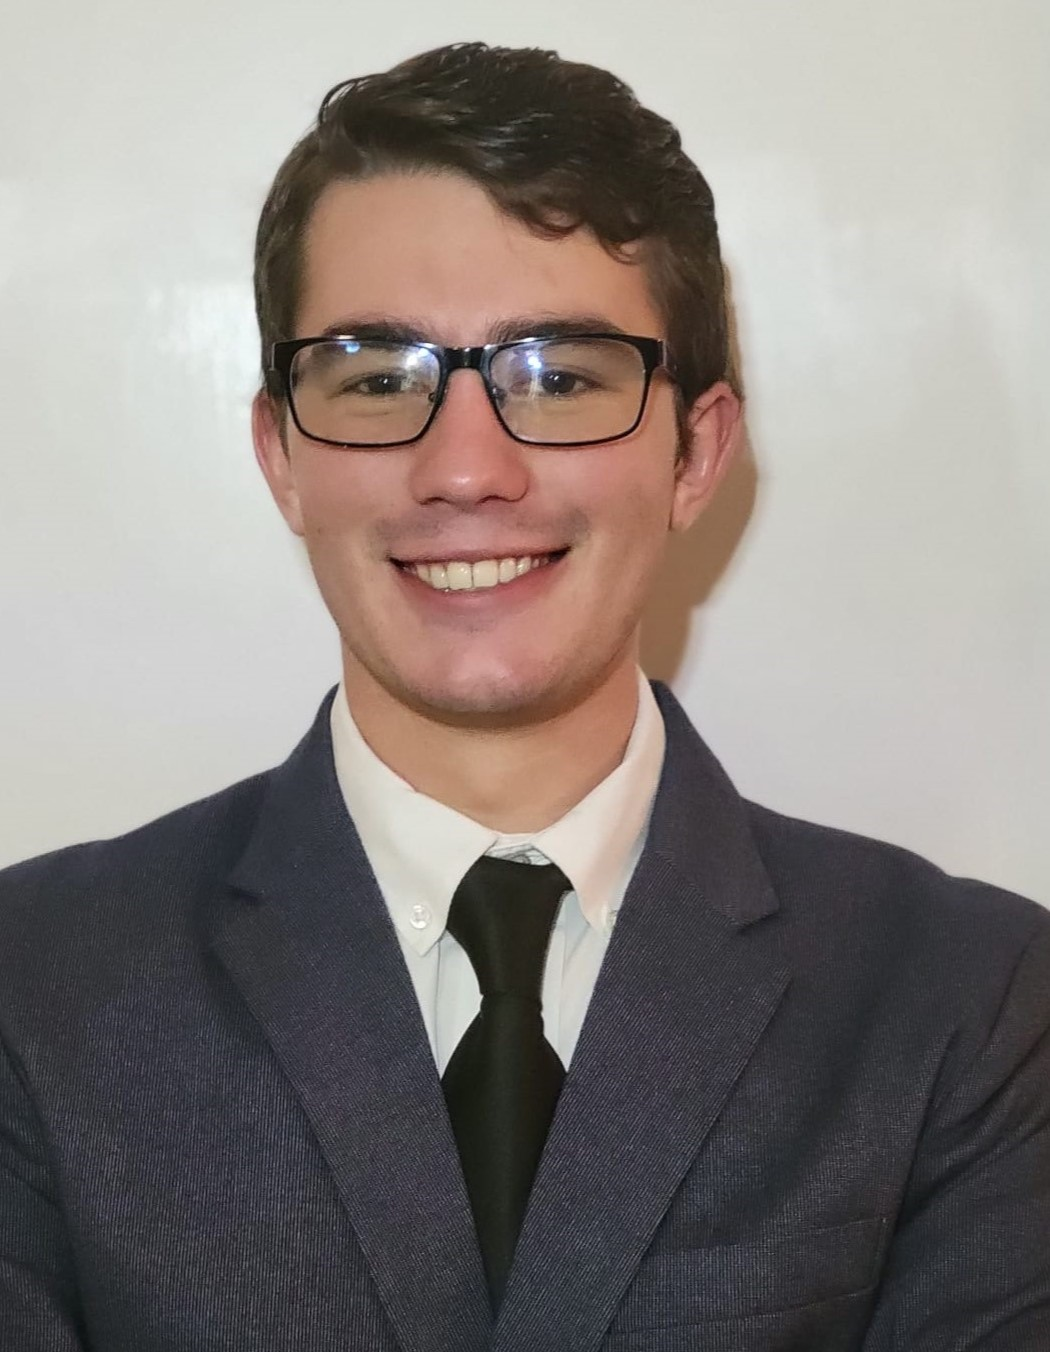
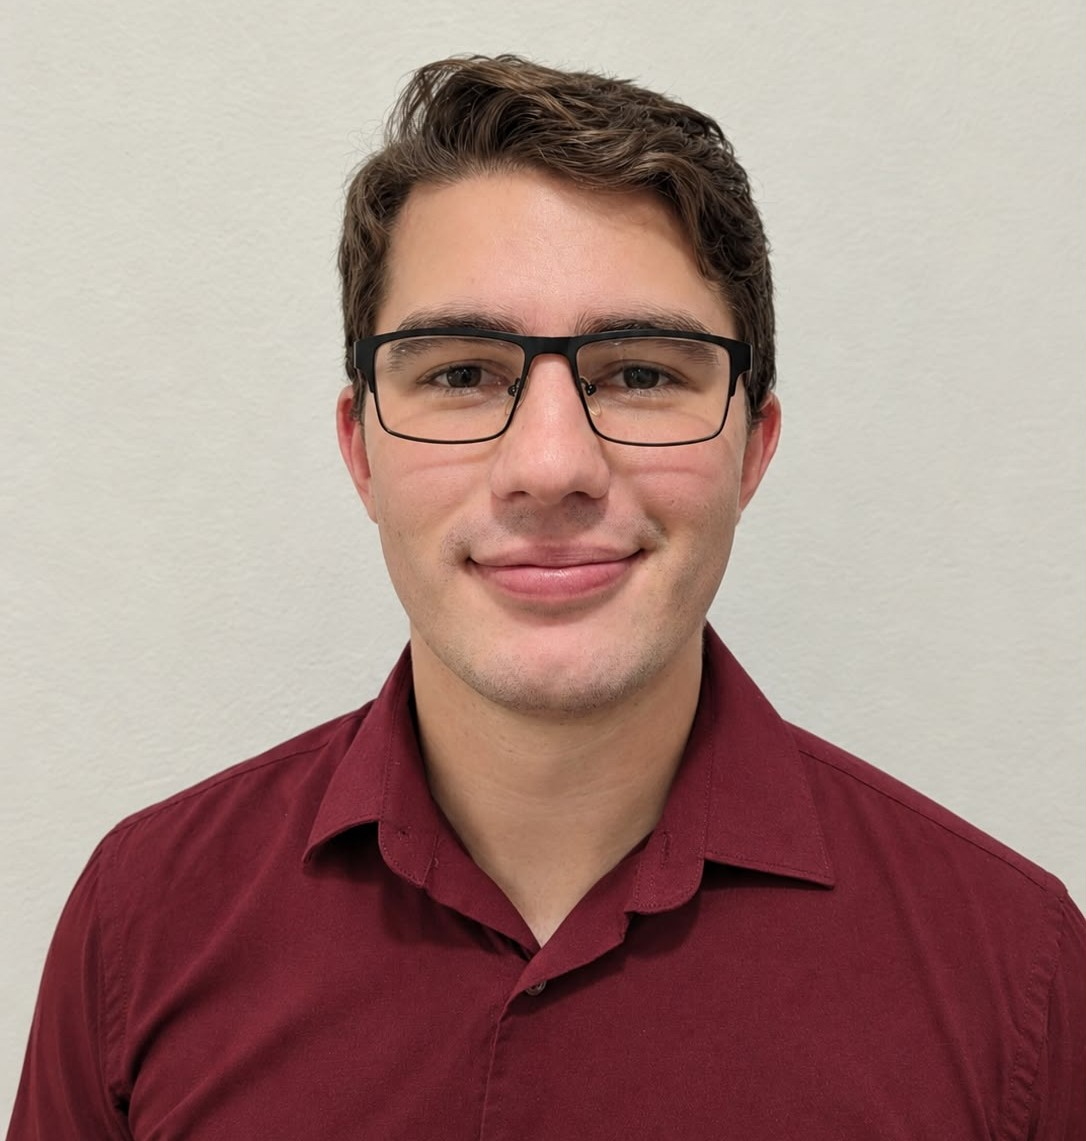
added nav bar - FAQ - bacground - new images

diff --git a/App.js b/App.js
@@ -1,7 +1,7 @@
 import React, { useCallback, useEffect, useRef, useState } from 'react';
-import { ScrollView, View, Text, Image, Pressable, StyleSheet, useWindowDimensions, Platform, ActivityIndicator } from 'react-native';
+import { ScrollView, View, Text, Image, Pressable, StyleSheet, useWindowDimensions, Platform, ActivityIndicator, ImageBackground } from 'react-native';
 import { colors, fonts } from './src/theme';
-import { SUBJECTS, REVIEWS, ABOUT_TEXT } from './src/data/content';
+import { SUBJECTS, REVIEWS, ABOUT_TEXT, FAQ } from './src/data/content';
 import api from './src/services/ApiService';
 import BookingModal from './src/components/BookingModal';
 
@@ -30,6 +30,8 @@ export default function App() {
   const [availabilities, setAvailabilities] = useState(null);
   const [selectedSlot, setSelectedSlot] = useState(null);
   const [bookedIds, setBookedIds] = useState([]);
+  const [openFaq, setOpenFaq] = useState(null);
+  const [navHeight, setNavHeight] = useState(0);
 
   useEffect(() => {
     api.getAvailabilities().then(setAvailabilities);
@@ -37,19 +39,55 @@ export default function App() {
 
   const track = (key) => (e) => { positions.current[key] = e.nativeEvent.layout.y; };
   const goTo = useCallback((key) => {
-    scrollRef.current?.scrollTo({ y: Math.max((positions.current[key] || 0) - 8, 0), animated: true });
-  }, []);
+    scrollRef.current?.scrollTo({ y: Math.max((positions.current[key] || 0) - navHeight - 8, 0), animated: true });
+  }, [navHeight]);
   const goToAvailability = () => goTo('availability');
+  
+  const goToTop = useCallback(() => {
+  scrollRef.current?.scrollTo({ y: 0, animated: true });
+}, []);
 
   const pad = wide ? 64 : 24;
-  const NAV = [['About', 'about'], ['Reviews', 'reviews'], ['Availability', 'availability'], ['FAQ', 'faq']];
+  const NAV = [['Availability', 'availability'],['About', 'about'], ['FAQ', 'faq'],['Reviews', 'reviews'] , ];
+
+  const faqItems = Array.isArray(FAQ)
+    ? FAQ.map((item) => {
+        if (Array.isArray(item)) return { q: item[0], a: item[1] };
+        if (item.question !== undefined) return { q: item.question, a: item.answer };
+        if (item.q !== undefined) return { q: item.q, a: item.a };
+        return { q: Object.keys(item)[0], a: Object.values(item)[0] };
+      })
+    : Object.entries(FAQ).map(([q, a]) => ({ q, a }));
 
   return (
     <View style={styles.root}>
+      {/* NAV BAR */}
+      <View
+        onLayout={(e) => setNavHeight(e.nativeEvent.layout.height)}
+        style={[styles.nav, styles.navFixed, { paddingHorizontal: pad, flexDirection: wide ? 'row' : 'column', alignItems: wide ? 'center' : 'flex-start' }]}
+      >
+        <Pressable accessibilityRole="link" accessibilityLabel="Back to top" onPress={goToTop}>
+          <Text style={styles.brand}>Adam Hirshson</Text>
+          <Text style={styles.brandSub}>Math Tutor</Text>
+        </Pressable>
+        <View style={styles.navLinks}>
+          {NAV.map(([label, key]) => (
+            <Pressable key={key} accessibilityRole="link" onPress={() => goTo(key)}>
+              <Text style={styles.navText}>{label}</Text>
+            </Pressable>
+          ))}
+        </View>
+      </View>
+    
       <ScrollView ref={scrollRef} contentContainerStyle={{ backgroundColor: colors.paper }}>
         {/* Hero + nav */}
-        <View style={[styles.hero, gridBg, { borderBottomLeftRadius: wide ? 240 : 100 }]}>
-          <View style={[styles.nav, { paddingHorizontal: pad, flexDirection: wide ? 'row' : 'column', alignItems: wide ? 'center' : 'flex-start' }]}>
+        <ImageBackground
+          source={require('./assets/mathbackground.png')}
+          resizeMode="cover"
+          style={[styles.hero, { paddingTop: (navHeight), borderBottomLeftRadius: wide ? 240 : 100 }]}
+          imageStyle={{ borderBottomLeftRadius: wide ? 240 : 100 }}
+>
+          {/* <View style={[styles.nav, { paddingHorizontal: pad, flexDirection: wide ? 'row' : 'column', alignItems: wide ? 'center' : 'flex-start' }]}>
             <View>
               <Text style={styles.brand}>Adam Hirshson</Text>
               <Text style={styles.brandSub}>Math Tutor</Text>
@@ -61,7 +99,7 @@ export default function App() {
                 </Pressable>
               ))}
             </View>
-          </View>
+          </View> */}
 
           <View style={[styles.heroBody, { paddingHorizontal: pad, flexDirection: wide ? 'row' : 'column' }]}>
             <View style={{ flex: 1, gap: 24, paddingVertical: wide ? 40 : 8 }}>
@@ -70,11 +108,11 @@ export default function App() {
               <Text style={styles.freeAdvert}>First session free, book it now!</Text>
               <View style={{ alignSelf: 'flex-start' }}><BookButton onPress={goToAvailability} /></View>
             </View>
-            <View style={[styles.heroPhotoWrap, wide ? { marginLeft: 48 } : { marginTop: 32, alignSelf: 'center' }]}>
-              <Image source={require('./assets/adam-hero.jpg')} style={styles.heroPhoto} resizeMode="cover" accessibilityLabel="Adam Hirshson" />
-            </View>
+            {/* <View style={[styles.heroPhotoWrap, wide ? { marginLeft: 48 } : { marginTop: 32, alignSelf: 'center' }]}> */}
+              {/* <Image source={require('./assets/adam-hero.jpg')} style={styles.heroPhoto} resizeMode="cover" accessibilityLabel="Adam Hirshson" /> */}
+            {/* </View> */}
           </View>
-        </View>
+        </ImageBackground>
 
         {/* Services */}
         <View onLayout={track('services')} style={[styles.section, { paddingHorizontal: pad }]}>
@@ -136,6 +174,29 @@ export default function App() {
           </View>
         </View>
         
+        {/* FAQ */}
+      <View onLayout={track('faq')} style={[styles.section, { paddingHorizontal: pad, backgroundColor: colors.mist }]}>
+        <Text style={styles.h2}>Frequently asked questions</Text>
+        <View style={styles.faqList}>
+          {faqItems.map((item, i) => {
+            const open = openFaq === i;
+            return (
+              <View key={i} style={styles.faqItem}>
+                <Pressable
+                  accessibilityRole="button"
+                  accessibilityState={{ expanded: open }}
+                  onPress={() => setOpenFaq(open ? null : i)}
+                  style={({ hovered }) => [styles.faqHeader, hovered && styles.faqHeaderHover]}
+                >
+                  <Text style={styles.faqQuestion}>{item.q}</Text>
+                  <Text style={[styles.faqChevron, { transform: [{ rotate: open ? '180deg' : '0deg' }] }]}>▾</Text>
+                </Pressable>
+                {open && <Text style={styles.faqAnswer}>{item.a}</Text>}
+              </View>
+            );
+          })}
+        </View>
+      </View>
 
         {/* Reviews */}
         <View onLayout={track('reviews')} style={[styles.section, { paddingHorizontal: pad }]}>
@@ -169,15 +230,16 @@ export default function App() {
 
 const styles = StyleSheet.create({
   root: { flex: 1, backgroundColor: colors.paper },
-  hero: { backgroundColor: colors.slate, paddingBottom: 56 },
+  hero: { backgroundColor: colors.slate, paddingBottom: 56, overflow: 'hidden'},
   nav: { paddingTop: 24, paddingBottom: 16, justifyContent: 'space-between', gap: 12 },
   brand: { fontFamily: fonts.display, fontSize: 26, fontWeight: '700', color: colors.white },
   brandSub: { fontFamily: fonts.body, fontSize: 15, color: colors.mist },
+  navFixed: { position: 'absolute', top: 0, left: 0, right: 0, zIndex: 10, backgroundColor: colors.slate },
   navLinks: { flexDirection: 'row', flexWrap: 'wrap', gap: 24 },
   navText: { fontFamily: fonts.body, fontSize: 22, fontWeight: '500', color: colors.white },
   heroBody: { alignItems: 'center', paddingTop: 24 },
   h1: { fontFamily: fonts.display, fontWeight: '700', color: colors.white },
-  lead: { fontFamily: fonts.body, fontSize: 20, lineHeight: 30, color: colors.mist, maxWidth: 480 },
+  lead: { fontFamily: fonts.body, fontSize: 24, lineHeight: 30, color: colors.mist, maxWidth: 480 },
   freeAdvert: { fontFamily: fonts.body, fontSize: 24, lineHeight: 30, fontWeight: 700, color: colors.black, maxWidth: 480 },
   cta: { backgroundColor: colors.sun, paddingHorizontal: 28, paddingVertical: 14, borderRadius: 999 },
   ctaText: { fontFamily: fonts.body, fontSize: 17, fontWeight: '700', color: colors.slateDeep },
@@ -210,6 +272,14 @@ const styles = StyleSheet.create({
   slotHover: { backgroundColor: colors.slate },
   slotTaken: { backgroundColor: 'transparent', borderColor: '#9FB5BB', borderStyle: 'dashed' },
   slotText: { fontFamily: fonts.body, fontSize: 16, fontWeight: '500', color: colors.slateDeep },
+
+  faqList: { gap: 14, marginTop: 8, width: '100%', maxWidth: 1400, alignSelf: 'center' },
+  faqItem: { backgroundColor: colors.beige, borderRadius: 16, borderLeftWidth: 4, borderLeftColor: colors.sun, overflow: 'hidden' },
+  faqHeader: { flexDirection: 'row', alignItems: 'center', justifyContent: 'space-between', gap: 16, paddingHorizontal: 24, paddingVertical: 20 },
+  faqHeaderHover: { backgroundColor: colors.white },
+  faqQuestion: { flex: 1, fontFamily: fonts.display, fontSize: 20, fontWeight: '700', color: colors.slateDeep },
+  faqChevron: { fontSize: 22, color: colors.slate },
+  faqAnswer: { fontFamily: fonts.body, fontSize: 17, lineHeight: 26, color: colors.slateDeep, paddingHorizontal: 24, paddingBottom: 22 },
 
   footer: { padding: 28, alignItems: 'center', backgroundColor: colors.slateDeep },
   footerText: { fontFamily: fonts.body, fontSize: 14, color: colors.mist },

diff --git a/src/data/content.js b/src/data/content.js
@@ -2,7 +2,7 @@
 export const SUBJECTS = [
   { name: 'Middle School', blurb: 'Fractions, ratios, and pre-algebra, taken at the pace the student needs.' },
   { name: 'Algebra', blurb: 'Equations, functions, and graphing, with the "why" behind every step.' },
-  { name: 'Geometry', blurb: 'Proofs, angles, area, and volume made visual and concrete.' },
+  //{ name: 'Geometry', blurb: 'Proofs, angles, area, and volume made visual and concrete.' },
   { name: 'Pre-Calculus', blurb: 'Trig functions, logarithms, complex numbers, and the tools students need before calculus.' },
   // { name: 'Computer Science', blurb: 'Programming and Comp Sci fundamentals, problem solving, and preparing for the AP exam.' },
 ];

diff --git a/src/components/BookingModal.js b/src/components/BookingModal.js
@@ -234,7 +234,7 @@ export default function BookingModal({ slot, onClose, onBooked }) {
             <View style={{ gap: 16 }}>
               <Text style={styles.title}>Session requested</Text>
               <Text style={styles.body}>
-                {form.studentName}’s session on {slot?.day} at {slot?.time} has been requested. You’ll hear back to confirm.
+                {form.studentName}’s session on {slot?.day} at {slot?.time} has been requested. I will reach out via text shortly to share more details.
               </Text>
               <Pressable style={styles.primary} onPress={onClose}><Text style={styles.primaryText}>Close</Text></Pressable>
             </View>

diff --git a/src/theme.js b/src/theme.js
@@ -5,6 +5,7 @@ export const colors = {
   paper: '#FBF6F1',      // page background
   sun: '#E8913A',        // accent (buttons, quote marks)
   sunDeep: '#C9741F',
+  beige: '#faf5f0',
   white: '#FFFFFF',
   black: '#000000',
 };
